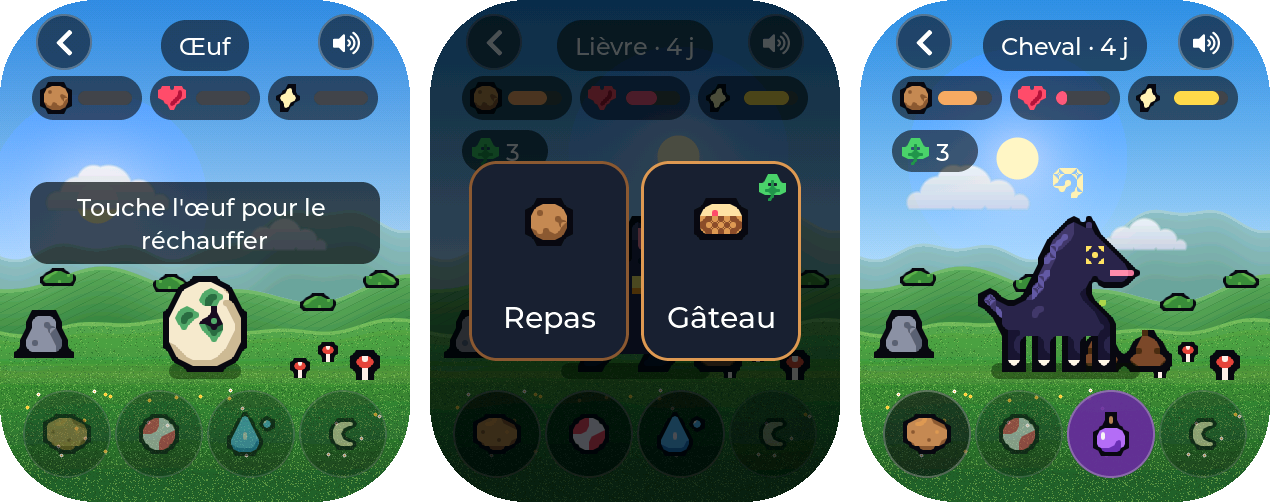
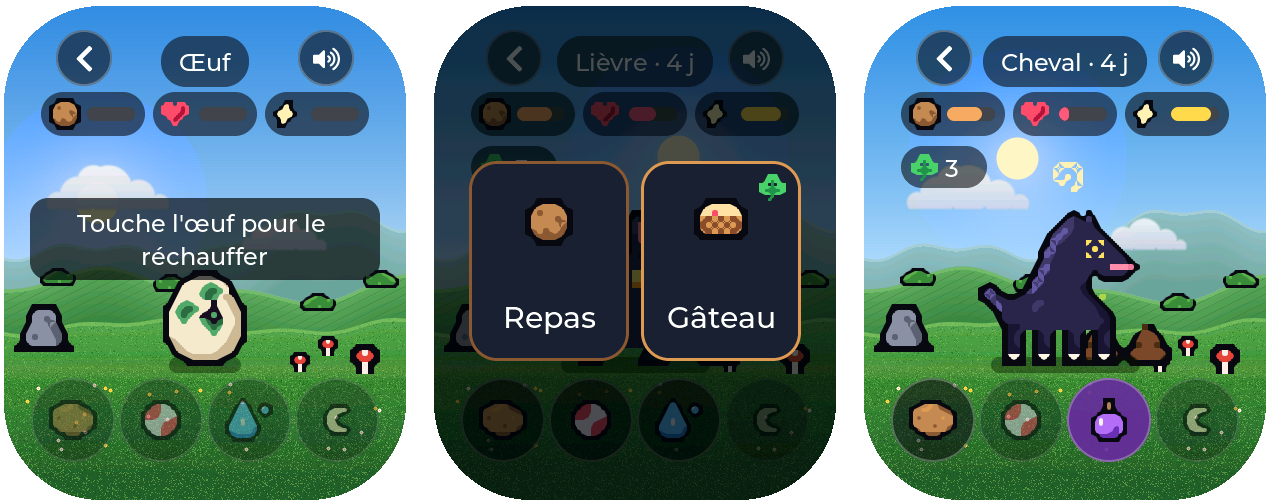
0.3.11: Púca full-width redraws (no streaks), layout clear of rounded corners
Claude-Session: https://claude.ai/code/session_01Nqsr6cAJoi6fwD9jo15fp1

diff --git a/main/app_puca.c b/main/app_puca.c
@@ -47,19 +47,24 @@
 #define SW      BOARD_LCD_W
 #define SH      BOARD_LCD_H
 #define LW      ((float)SW / K)          /* largeur de la scène en pixels de dessin */
-#define GY      372                      /* ligne sous les pattes (écran) */
+#define GY      366                      /* ligne sous les pattes (écran) */
 #define FEET    (GY / K)                 /* même ligne en pixels de dessin */
 #define TICK_MS 40
 #define DT      (TICK_MS / 80.0f)        /* vitesses réglées pour un pas de 80 ms */
 #define NPART   28
 
-/* mise en page (pixels écran) */
-#define BTN_D   88                       /* diamètre des boutons ronds */
-#define BTN_CY  434                      /* centre de la rangée de boutons */
-#define TOP_CY  42                       /* centre de la barre du haut */
-#define GAUGE_Y 76
-#define CLOV_Y  130
-#define MSG_Y   182
+/* mise en page (pixels écran), en retrait des coins arrondis de la dalle
+ * (rayon visible d'environ 110 px sur la montre) */
+#define BTN_D   84                       /* diamètre des boutons ronds */
+#define BTN_STEP 88                      /* écart entre leurs centres */
+#define BTN_CY  420                      /* centre de la rangée de boutons */
+#define TOP_CY  58                       /* centre de la barre du haut */
+#define TOP_X   56                       /* bord des boutons retour et son */
+#define GAUGE_W 104
+#define GAUGE_X ((SW - 3 * GAUGE_W - 16) / 2)
+#define GAUGE_Y 92
+#define CLOV_Y  146
+#define MSG_Y   198
 
 /* ------------------------------------------------------------------ modèle */
 static puca_t m;
@@ -1221,6 +1226,30 @@ static void back_cb(lv_event_t *e) { app_close(); }
 
 static void feed_close_cb(lv_event_t *e) { hide(v_feed); }
 
+/* ------------------------------------------------------------------ zones à redessiner */
+/* Tant que l'app est affichée, toute zone à redessiner prend la largeur de
+ * l'écran : la dalle ne reçoit que des bandes pleine largeur (comme le
+ * reste de l'interface et les jeux), jamais de fenêtres étroites côte à
+ * côte, qui laissaient des traits noirs et des pixels parasites derrière le
+ * púca (0.3.10). Les grandes bandes partent aussi calées sur le TE. */
+static bool s_wide;
+
+static void wide_cb(lv_event_t *e)
+{
+    lv_area_t *a = lv_event_get_param(e);
+    a->x1 = 0;
+    a->x2 = SW - 1;
+}
+
+static void wide_inval(bool on)
+{
+    lv_display_t *d = lv_display_get_default();
+    if (!d || on == s_wide) return;
+    if (on) lv_display_add_event_cb(d, wide_cb, LV_EVENT_INVALIDATE_AREA, NULL);
+    else lv_display_remove_event_cb_with_user_data(d, wide_cb, NULL);
+    s_wide = on;
+}
+
 /* ------------------------------------------------------------------ interface */
 static const char *stage_name(void)
 {
@@ -1408,7 +1437,7 @@ static void create(lv_obj_t *scr)
 
     /* barre du haut : retour, stade et âge, son */
     lv_obj_t *bk = round_btn(v_root, 56, back_cb, 0);
-    lv_obj_set_pos(bk, 36, TOP_CY - 28);
+    lv_obj_set_pos(bk, TOP_X, TOP_CY - 28);
     lv_obj_set_ext_click_area(bk, 10);
     lv_obj_center(label(bk, &font_title, LV_SYMBOL_LEFT));
     v_stage = label(v_root, &font_text, "");
@@ -1419,7 +1448,7 @@ static void create(lv_obj_t *scr)
     lv_obj_set_style_pad_ver(v_stage, 9, 0);
     lv_obj_align(v_stage, LV_ALIGN_TOP_MID, 0, TOP_CY - 22);
     v_spk = round_btn(v_root, 56, spk_cb, 0);
-    lv_obj_set_pos(v_spk, SW - 36 - 56, TOP_CY - 28);
+    lv_obj_set_pos(v_spk, SW - TOP_X - 56, TOP_CY - 28);
     lv_obj_set_ext_click_area(v_spk, 10);
     v_spk_lbl = label(v_spk, &font_text, LV_SYMBOL_VOLUME_MAX);
     lv_obj_center(v_spk_lbl);
@@ -1428,13 +1457,13 @@ static void create(lv_obj_t *scr)
     static const puca_spr_t *const gi[3] = { &puca_it_potato, &puca_it_heart, &puca_it_bolt };
     static const uint32_t gc[3] = { 0xf0a860, 0xff5a7a, 0xffd84a };
     for (int i = 0; i < 3; i++) {
-        lv_obj_t *p = pill(v_root, 110, 44);
-        lv_obj_set_pos(p, 32 + i * 118, GAUGE_Y);
+        lv_obj_t *p = pill(v_root, GAUGE_W, 44);
+        lv_obj_set_pos(p, GAUGE_X + i * (GAUGE_W + 8), GAUGE_Y);
         lv_obj_t *im = lv_image_create(p);
         lv_image_set_src(im, icon(gi[i], 4));
         lv_obj_align(im, LV_ALIGN_LEFT_MID, 8, 0);
         v_bar[i] = lv_bar_create(p);
-        lv_obj_set_size(v_bar[i], 54, 14);
+        lv_obj_set_size(v_bar[i], GAUGE_W - 56, 14);
         lv_obj_align(v_bar[i], LV_ALIGN_LEFT_MID, 46, 0);
         lv_bar_set_range(v_bar[i], 0, 100);
         lv_obj_set_style_bg_color(v_bar[i], lv_color_hex(0x40444f), LV_PART_MAIN);
@@ -1448,7 +1477,7 @@ static void create(lv_obj_t *scr)
 
     /* trèfles */
     v_clov = pill(v_root, 86, 42);
-    lv_obj_set_pos(v_clov, 32, CLOV_Y);
+    lv_obj_set_pos(v_clov, GAUGE_X, CLOV_Y);
     lv_obj_t *ci = lv_image_create(v_clov);
     lv_image_set_src(ci, icon(&puca_it_clover, 3));
     lv_obj_align(ci, LV_ALIGN_LEFT_MID, 10, 0);
@@ -1488,7 +1517,7 @@ static void create(lv_obj_t *scr)
     static const puca_spr_t *const bi[4] = { &puca_it_b_feed, &puca_it_b_play, &puca_it_b_clean, &puca_it_b_moon };
     for (int i = 0; i < 4; i++) {
         v_btn[i] = round_btn(v_btnrow, BTN_D, act_cb, i);
-        lv_obj_set_pos(v_btn[i], SW / 2 + (i * 2 - 3) * 92 / 2 - BTN_D / 2, 4);
+        lv_obj_set_pos(v_btn[i], SW / 2 + (i * 2 - 3) * BTN_STEP / 2 - BTN_D / 2, 4);
         lv_obj_t *im = lv_image_create(v_btn[i]);
         lv_image_set_src(im, icon(bi[i], 4));
         lv_obj_center(im);
@@ -1504,11 +1533,11 @@ static void create(lv_obj_t *scr)
     ui_bubble(v_gamerow);
     for (int i = 0; i < 2; i++) {
         lv_obj_t *b = round_btn(v_gamerow, BTN_D, guess_cb, i ? 1 : -1);
-        lv_obj_set_size(b, 164, BTN_D);
-        lv_obj_set_style_transform_pivot_x(b, 82, 0);
+        lv_obj_set_size(b, 158, BTN_D);
+        lv_obj_set_style_transform_pivot_x(b, 79, 0);
         lv_obj_set_style_bg_color(b, C_ACC, 0);
         lv_obj_set_style_bg_opa(b, LV_OPA_90, 0);
-        lv_obj_set_pos(b, i ? SW / 2 + 6 : SW / 2 - 6 - 164, 4);
+        lv_obj_set_pos(b, i ? SW / 2 + 6 : SW / 2 - 6 - 158, 4);
         lv_obj_center(label(b, &font_title, i ? LV_SYMBOL_RIGHT : LV_SYMBOL_LEFT));
     }
     hide(v_gamerow);
@@ -1601,6 +1630,7 @@ static void create(lv_obj_t *scr)
 static void destroy(void)
 {
     if (v_tmr) { lv_timer_delete(v_tmr); v_tmr = NULL; }
+    wide_inval(false);
     save();
     heap_caps_free(s_base); heap_caps_free(s_cov); heap_caps_free(s_out);
     s_base = NULL; s_cov = NULL; s_out = NULL;
@@ -1622,6 +1652,7 @@ static void on_show(void)
     handle_events();
     if (!v_tmr) v_tmr = lv_timer_create(tick_cb, TICK_MS, NULL);
     else lv_timer_resume(v_tmr);
+    wide_inval(true);
     relight(false);
     refresh_ui();
 }
@@ -1629,6 +1660,7 @@ static void on_show(void)
 static void on_hide(void)
 {
     if (v_tmr) lv_timer_pause(v_tmr);
+    wide_inval(false);
     if (a_kind == A_GAME) {                   /* partie interrompue : comptée telle quelle */
         if (g_phase < 2) { puca_play_done(&m, g_wins, G_ROUNDS); }
         hide(v_gamerow);

diff --git a/CHANGELOG.md b/CHANGELOG.md
@@ -2,6 +2,12 @@
 
 All notable changes. Versions follow `PROJECT_VER` in `CMakeLists.txt`.
 
+## 0.3.11 — 2026-11-27
+
+- Púca: no more black streaks or stray pixels behind the moving pet (the app now refreshes
+  full-width bands only, started on the panel's TE).
+- Púca: top buttons, gauges and the bottom row moved in from the rounded corners.
+
 ## 0.3.10 — 2026-11-27
 
 - Púca redrawn: full-screen scene (rounded corners included), scenery at full resolution
